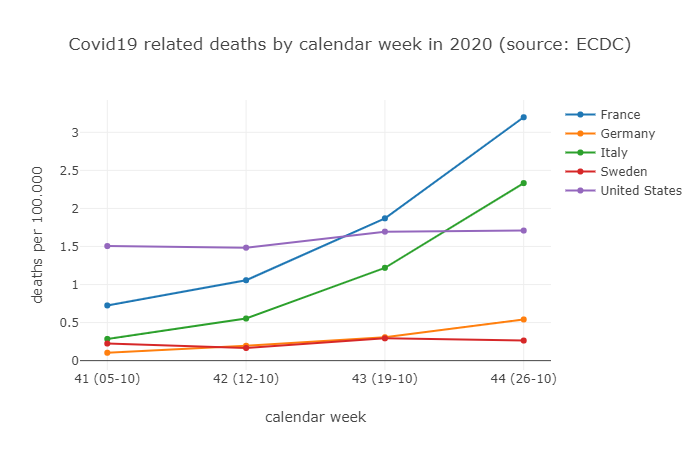
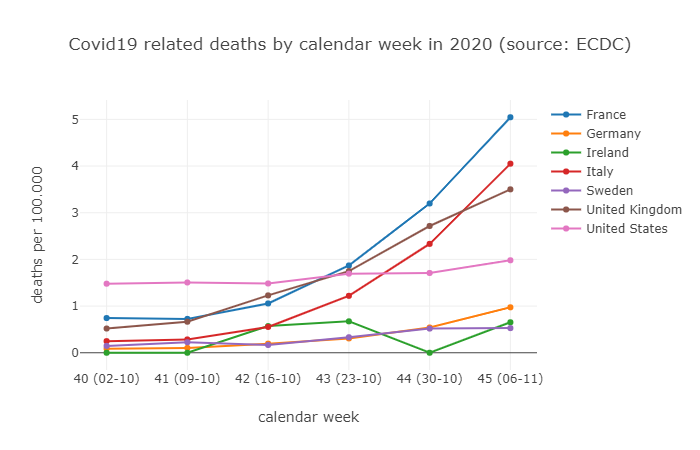
Link to ECC website in description; updated plot with autumn data

diff --git a/README.md b/README.md
@@ -1,6 +1,6 @@
 # Covid19 related deaths plot
 
-This package uses the data from the _European Centre for Disease Prevention and Control_ (ECDC) to display a plot of the number deaths (by 100.000 of population) related to Covid19 by country.
+This package uses the data from the _European Centre for Disease Prevention and Control_ ([ECDC](https://www.ecdc.europa.eu/publications-data/data-national-14-day-notification-rate-covid-19)) to display a plot of the number deaths (by 100.000 of population) related to Covid19 by country.
 
 ![Example output (2020-11-06)](./doc/example-plot-2020-11-06.png)
 
